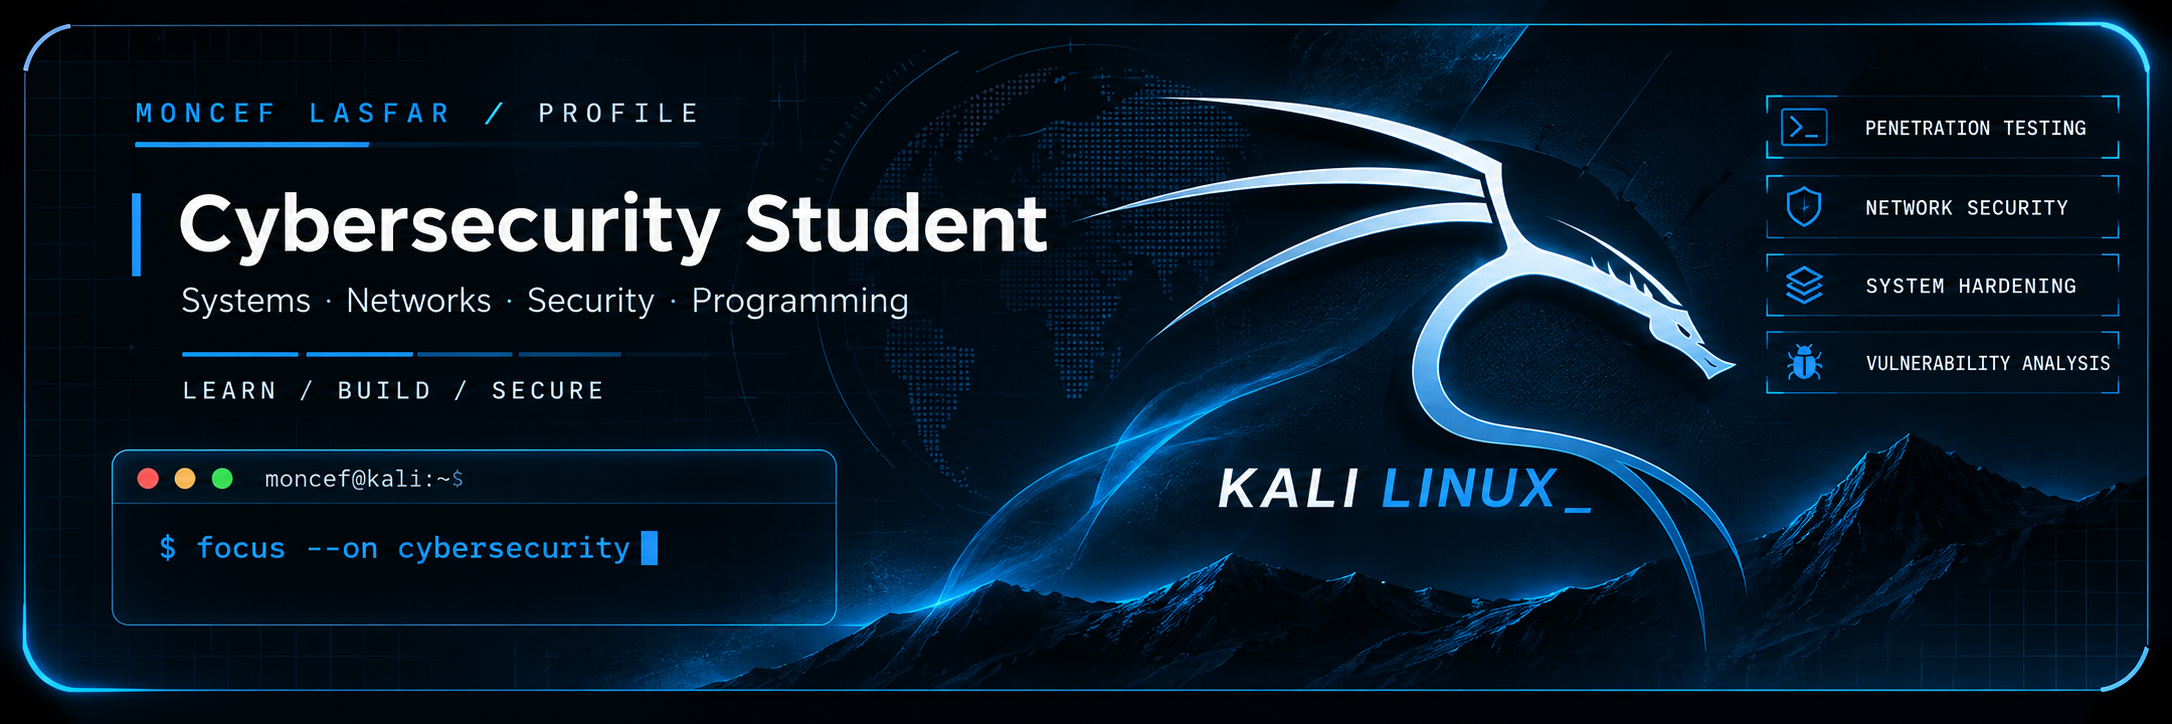
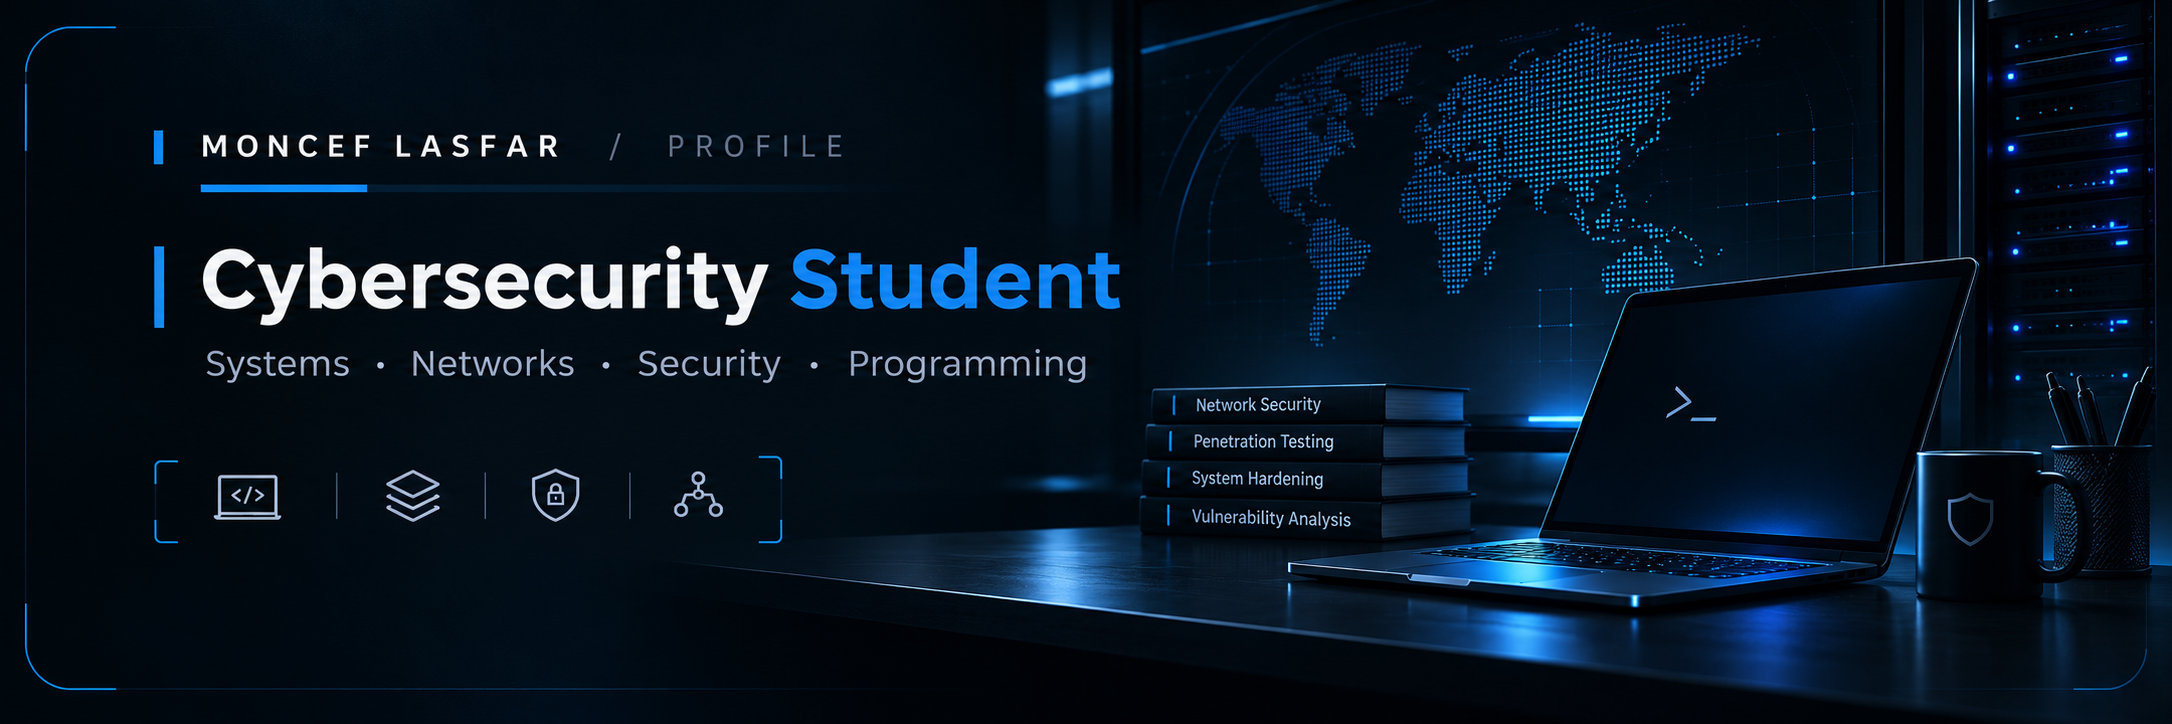
Add files via upload

diff --git a/README.md b/README.md
@@ -1,93 +1,6 @@
-<div align="center">
-
-<img src="banner.png" alt="Moncef Lasfar | Cybersecurity Student" width="100%"/>
-
-<a href="https://github.com/YOUR_USERNAME/YOUR_USERNAME">
-  <img src="https://readme-typing-svg.demolab.com?font=JetBrains+Mono&weight=600&size=18&pause=1200&color=1E90FF&center=true&vCenter=true&width=520&lines=Learn+%2F+Build+%2F+Secure;Networks+%7C+Systems+%7C+Security;focus+--on+cybersecurity" alt="Typing SVG"/>
-</a>
-
-</div>
-
----
-
-## 👤 About Me
-
-Cybersecurity student focused on **networks, systems, and offensive/defensive security**.
-I learn by building labs, breaking things safely, and documenting what I find.
-
-- 🔭 Currently learning: `YOUR_CURRENT_FOCUS`
-- 🧪 Practicing on: TryHackMe / Hack The Box (labs only, with permission)
-- 🎯 Goal: `YOUR_GOAL` (e.g. SOC analyst / pentester)
-
----
-
-## 🛠 Technical Skills
-
-<div align="center">
-
-### Programming
-![C](https://img.shields.io/badge/C-0b1220?style=for-the-badge&logo=c&logoColor=1e90ff)
-![Python](https://img.shields.io/badge/Python-0b1220?style=for-the-badge&logo=python&logoColor=1e90ff)
-![C++](https://img.shields.io/badge/C++-0b1220?style=for-the-badge&logo=cplusplus&logoColor=1e90ff)
-![Java](https://img.shields.io/badge/Java-0b1220?style=for-the-badge&logo=openjdk&logoColor=1e90ff)
-![HTML5](https://img.shields.io/badge/HTML5-0b1220?style=for-the-badge&logo=html5&logoColor=1e90ff)
-![CSS3](https://img.shields.io/badge/CSS3-0b1220?style=for-the-badge&logo=css3&logoColor=1e90ff)
-
-### Networking
-![Cisco Packet Tracer](https://img.shields.io/badge/Cisco_Packet_Tracer-0b1220?style=for-the-badge&logo=cisco&logoColor=1e90ff)
-![VLANs](https://img.shields.io/badge/VLANs-0b1220?style=for-the-badge&logo=cisco&logoColor=1e90ff)
-![Routing](https://img.shields.io/badge/Routing-0b1220?style=for-the-badge&logo=cisco&logoColor=1e90ff)
-![Switching](https://img.shields.io/badge/Switching-0b1220?style=for-the-badge&logo=cisco&logoColor=1e90ff)
-
-### Systems
-![Linux](https://img.shields.io/badge/Linux-0b1220?style=for-the-badge&logo=linux&logoColor=1e90ff)
-![Windows Server](https://img.shields.io/badge/Windows_Server-0b1220?style=for-the-badge&logo=windows11&logoColor=1e90ff)
-
-### Security Tools
-![Wireshark](https://img.shields.io/badge/Wireshark-0b1220?style=for-the-badge&logo=wireshark&logoColor=1e90ff)
-![Nmap](https://img.shields.io/badge/Nmap-0b1220?style=for-the-badge&logo=gnometerminal&logoColor=1e90ff)
-![Burp Suite](https://img.shields.io/badge/Burp_Suite-0b1220?style=for-the-badge&logo=burpsuite&logoColor=1e90ff)
-![Kali Linux](https://img.shields.io/badge/Kali_Linux-0b1220?style=for-the-badge&logo=kalilinux&logoColor=1e90ff)
-
-</div>
-
----
-
-## 🚀 Featured Projects
-
-| Project | What it does | Tech |
-|---|---|---|
-| [**Project 1**](link) | One line: what problem it solves | Python |
-| [**Home Lab**](link) | VLAN-segmented network with Windows Server + Linux | Cisco PT, Linux |
-| [**Port Scanner**](link) | Simple TCP scanner built from scratch | C / Python |
-
-> Replace these rows with your real work. Even 2–3 solid projects beat a long list of claims.
-
----
-
-## 🧪 Labs & Write-ups
-
-- [ ] TryHackMe: `ROOM_NAME` → [write-up](link)
-- [ ] Hack The Box: `MACHINE_NAME` → [write-up](link)
-- [ ] Wireshark traffic analysis lab → [write-up](link)
-
----
-
-## 📜 Certifications & Learning
-
-- `CERT_OR_COURSE` (in progress / completed)
-- `CERT_OR_COURSE`
-
----
-
-## 📫 Connect
-
-<div align="center">
-
-[![LinkedIn](https://img.shields.io/badge/LinkedIn-0b1220?style=for-the-badge&logo=linkedin&logoColor=1e90ff)](https://linkedin.com/in/YOUR_LINK)
-[![Email](https://img.shields.io/badge/Email-0b1220?style=for-the-badge&logo=gmail&logoColor=1e90ff)](mailto:YOUR_EMAIL)
-
-</div>
+<p align="center">
+  <img src="assets/moncef-kali-profile-banner.png" alt="Moncef Lasfar — Cybersecurity Student, Kali Linux integrated banner" width="100%">
+</p>
 
 <div align="center">
   <picture>
